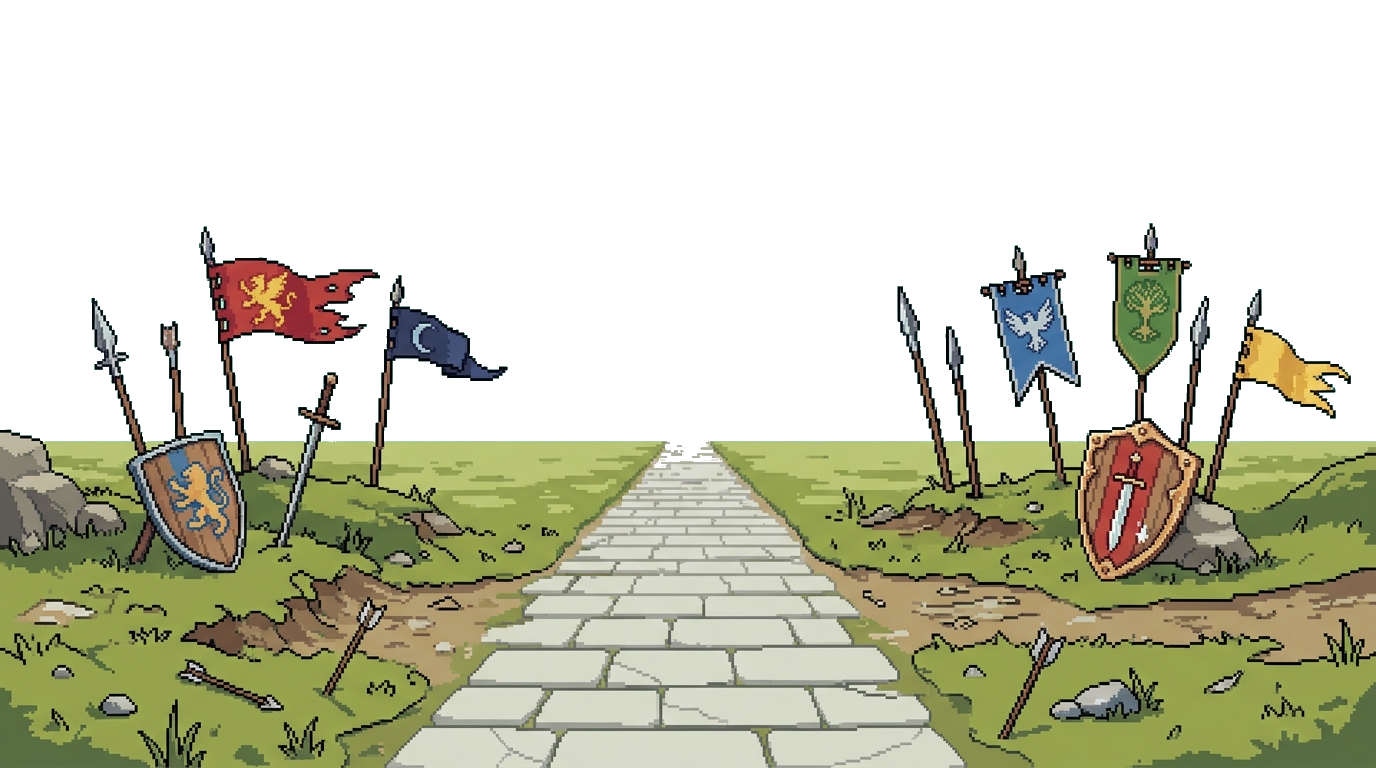
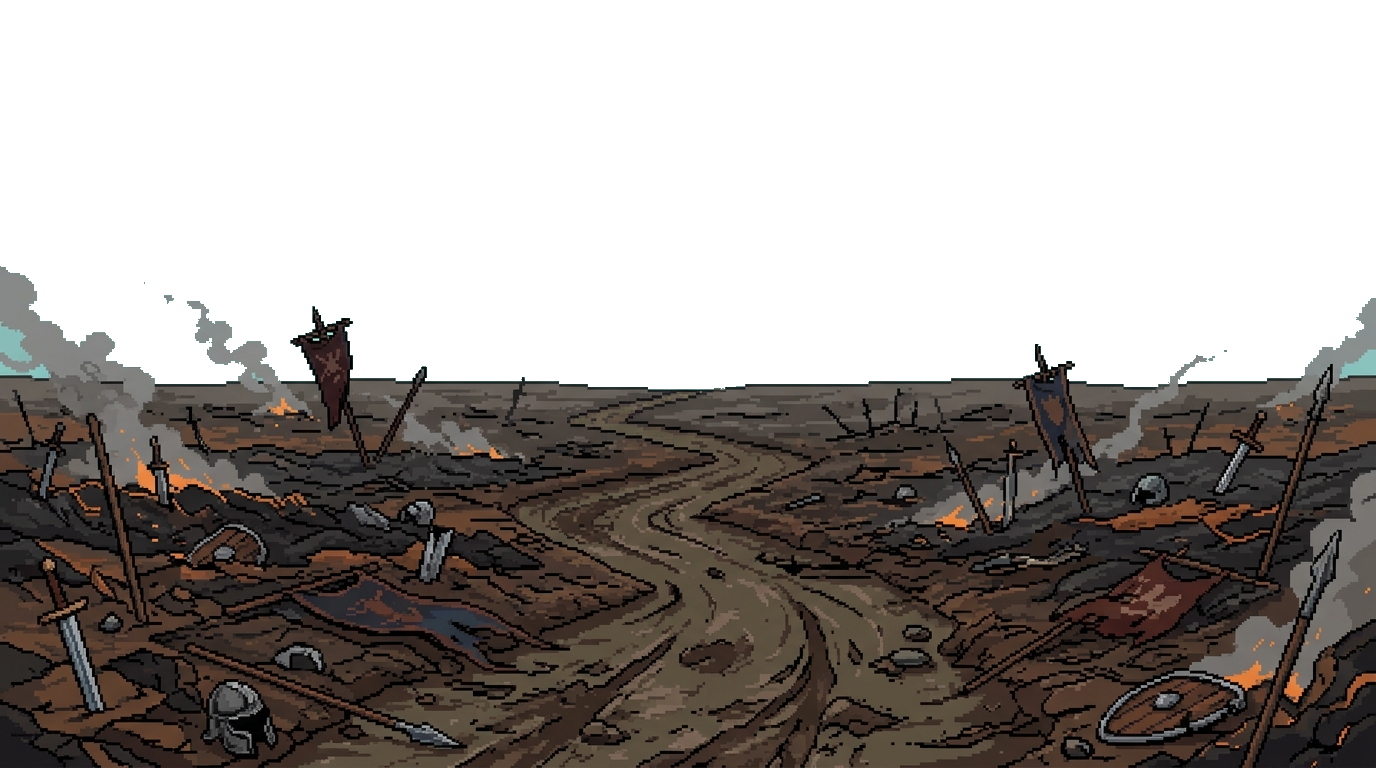
art(ch3): rediseño "La muerte de Flash" iter2 — battlefield aftermath + arco muerte→renacer
Rafael: ch3 debe tener el estilo del fondo de batalla épico de ch2 y centrarse en
la muerte de Flash. Parallax regenerado (estilo comic pixel dramático tipo Warcraft):
  - ch3-sky: cielo crepuscular humo/brasas que abre a un amanecer HTML5 dorado/cyan
  - ch3-mountains: cresta con fortaleza en ruinas humeante (transparente arriba)
  - ch3-path: campo quemado con armas/estandartes caídos y escombros
Mood "secuela con amanecer HTML5" (dramático pero esperanzador). Fondo oscuro →
texto en cream + glow ámbar.

Título "De vuelta al movimiento" → "La muerte de Flash" (i18n ui.deathOfFlash, es/en).

Emblemas re-tematizados al arco muerte→renacer (1 por párrafo):
  I Flash caído · II reconstrucción (yunque, NUEVO) · III estandarte de batalla
  (NUEVO) · IV orbe creativo · V HTML5 naciente (en el horizonte). HTML5 pasa de
  beacon decorativo a emblema clicable; shield/scroll/tome quedan legacy sin uso.

iter1 (fantasía pastel) preservado en old/ (§6.5). Tests + asset-naming actualizados.

diff --git a/src/components/Chapter3Content.vue b/src/components/Chapter3Content.vue
@@ -35,13 +35,18 @@ const bioParagraphs = computed(() => t(bio.eras[chapter.id].textKey).split('\n\n
 // Emblemas clicables — 1 por párrafo de la historia. Plantados en el escenario.
 // pos en % relativo a .ch3-content. Cada uno despliega bioParagraphs[idx].
 const ROMAN = ['I', 'II', 'III', 'IV', 'V']
+// Arco muerte→renacer (Rafael 2026-05-28): 1 emblema por párrafo.
+//   I  Flash caído ......... la muerte de Flash → salto a JS
+//   II reconstrucción ...... Pink Parrot, reconstruir desde cero con reglas nuevas
+//   III estandarte ......... el ágil como forma de pensar / ordenar el caos
+//   IV orbe creativo ....... publicidad digital, experimentar, cosas nuevas
+//   V  HTML5 naciente ...... época de crecer, salto de vuelta a la web (en el horizonte)
 const markers = [
-  // Emblema I = la muerte de Flash → salto a JS (refuerza el párrafo 1).
-  { key: 'flash', src: '/assets/ch3-flash-fallen.png', top: '42%', left: '14%', size: 100 },
-  { key: 'shield', src: '/assets/ch3-prop-shield.png', top: '62%', left: '27%', size: 96 },
-  { key: 'scroll', src: '/assets/ch3-mark-scroll.png', top: '70%', left: '50%', size: 92 },
-  { key: 'tome',   src: '/assets/ch3-mark-tome.png',   top: '60%', left: '72%', size: 88 },
-  { key: 'orb',    src: '/assets/ch3-mark-orb.png',    top: '40%', left: '86%', size: 92 },
+  { key: 'flash',    src: '/assets/ch3-flash-fallen.png', top: '54%', left: '16%', size: 112 },
+  { key: 'rebuild',  src: '/assets/ch3-mark-rebuild.png',  top: '67%', left: '34%', size: 94 },
+  { key: 'standard', src: '/assets/ch3-mark-standard.png', top: '49%', left: '51%', size: 98 },
+  { key: 'orb',      src: '/assets/ch3-mark-orb.png',      top: '66%', left: '69%', size: 88 },
+  { key: 'html5',    src: '/assets/ch3-html5-future.png',  top: '35%', left: '85%', size: 100 },
 ]
 
 // ── Estado del cuento ─────────────────────────────────────────────────────────
@@ -138,9 +143,6 @@ onBeforeUnmount(() => {
         class="ch3-spark"
         :style="{ left: sp.left, '--sp-delay': sp.delay, '--sp-dur': sp.dur, '--sp-size': sp.size }"
       ></span>
-
-      <!-- Faro HTML5 en el horizonte = el futuro (contraparte del Flash caído) -->
-      <div class="ch3-beacon" aria-hidden="true"></div>
     </div>
 
     <!-- ── Contenido: hint sutil + emblemas clicables ────────────────────── -->
@@ -148,7 +150,7 @@ onBeforeUnmount(() => {
       <!-- Hint mínimo (el entorno es el protagonista) -->
       <header class="ch3-hint">
         <p class="ch3-hint-era">Rafael · 2013</p>
-        <h1 class="ch3-hint-title">De vuelta al movimiento</h1>
+        <h1 class="ch3-hint-title">{{ t('ui.deathOfFlash') }}</h1>
         <p class="ch3-hint-cta">{{ t('ui.storyHint') }}</p>
       </header>
 
@@ -236,7 +238,7 @@ onBeforeUnmount(() => {
   overflow-y: auto;
   overflow-x: hidden;
   box-sizing: border-box;
-  background-color: #e9f1fb;
+  background-color: #1a1320;
   image-rendering: pixelated;
 }
 
@@ -323,34 +325,6 @@ onBeforeUnmount(() => {
   32% { opacity: 0; transform: translateX(-50px) rotate(-14deg); }
 }
 
-/* Faro HTML5 en el horizonte — el futuro. Glow celestial cálido + pulso suave. */
-.ch3-beacon {
-  position: absolute;
-  top: 34%;
-  left: 50%;
-  width: clamp(64px, 8.5vw, 120px);
-  aspect-ratio: 1;
-  transform: translate(-50%, -50%);
-  background: url('/assets/ch3-html5-future.png') center / contain no-repeat;
-  image-rendering: pixelated;
-  filter: drop-shadow(0 0 14px rgba(255, 200, 120, 0.85)) drop-shadow(0 0 32px rgba(255, 170, 80, 0.5));
-  animation: ch3-beacon-pulse 5.5s ease-in-out infinite;
-}
-.ch3-beacon::before {
-  content: '';
-  position: absolute;
-  inset: -65%;
-  border-radius: 50%;
-  background: radial-gradient(circle, rgba(255, 244, 210, 0.6) 0%, rgba(255, 210, 140, 0.26) 40%, transparent 70%);
-  z-index: -1;
-  animation: ch3-beacon-halo 5.5s ease-in-out infinite;
-}
-@keyframes ch3-beacon-pulse {
-  0%, 100% { transform: translate(-50%, -50%) scale(1); }
-  50% { transform: translate(-50%, -53%) scale(1.05); }
-}
-@keyframes ch3-beacon-halo { 0%, 100% { opacity: 0.5; } 50% { opacity: 0.9; } }
-
 .ch3-spark {
   position: absolute;
   bottom: 8%;
@@ -395,26 +369,29 @@ onBeforeUnmount(() => {
   font-size: 0.85rem;
   letter-spacing: 0.28em;
   text-transform: uppercase;
-  color: #4a3f63;
+  color: #e8b27a;
   margin: 0 0 4px;
-  text-shadow: 0 1px 0 rgba(255, 255, 255, 0.8);
+  text-shadow: 0 2px 6px rgba(0, 0, 0, 0.8);
 }
 .ch3-hint-title {
   font-family: 'Cinzel', 'Trajan Pro', serif;
   font-weight: 900;
-  font-size: clamp(1.6rem, 4vw, 2.6rem);
+  font-size: clamp(1.8rem, 4.4vw, 3rem);
   margin: 0 0 8px;
   line-height: 1.05;
-  color: #2a2140;
-  text-shadow: 0 1px 0 rgba(255,255,255,0.9), 0 0 18px rgba(150,220,255,0.45);
+  color: #fbeede;
+  text-shadow:
+    0 2px 8px rgba(0, 0, 0, 0.85),
+    0 0 22px rgba(255, 140, 60, 0.6),
+    0 0 44px rgba(255, 90, 40, 0.35);
 }
 .ch3-hint-cta {
   font-family: 'Roboto', sans-serif;
   font-size: 0.95rem;
   font-style: italic;
-  color: #3c3450;
+  color: #f0e2cf;
   margin: 0;
-  text-shadow: 0 1px 0 rgba(255,255,255,0.8);
+  text-shadow: 0 2px 6px rgba(0, 0, 0, 0.85);
   animation: ch3-hint-pulse 3s ease-in-out infinite;
 }
 @keyframes ch3-hint-pulse { 0%, 100% { opacity: 0.7; } 50% { opacity: 1; } }
@@ -654,8 +631,6 @@ onBeforeUnmount(() => {
   .ch3-fx--lasers::before,
   .ch3-fx--lasers::after,
   .ch3-spark,
-  .ch3-beacon,
-  .ch3-beacon::before,
   .ch3-hint-cta,
   .ch3-mark,
   .ch3-mark::before,

diff --git a/tests/components/Chapter3Content.test.js b/tests/components/Chapter3Content.test.js
@@ -46,9 +46,9 @@ describe('Chapter3Content.vue (parallax + cuento — iter10 2026-05-28)', () => 
   })
 
   // ── T2: hint mínimo ─────────────────────────────────────────────────────────
-  it('T2 hint: título + CTA storyHint presentes (texto mínimo)', () => {
+  it('T2 hint: título "La muerte de Flash" + CTA storyHint (texto mínimo)', () => {
     const { wrapper } = mountCh3()
-    expect(wrapper.find('.ch3-hint-title').exists()).toBe(true)
+    expect(wrapper.find('.ch3-hint-title').text()).toMatch(/muerte de Flash/i)
     expect(wrapper.find('.ch3-hint-cta').text().length).toBeGreaterThan(0)
   })
 

diff --git a/tests/assets/asset-naming.test.js b/tests/assets/asset-naming.test.js
@@ -62,7 +62,7 @@ const GITIGNORE_PATH = resolve(process.cwd(), '.gitignore')
 //     · ch3-flash-fallen.png (logo Flash "caído" — narrativa muerte de Flash, emblema I)
 //     · ch3-html5-future.png (logo HTML5 radiante en el horizonte — el futuro)
 const ASSET_NAMING_REGEX =
-  /^ch[0-6]-(bust|bg|bg-stars-far|bg-planet-mid|bg-nebulae-mid|fg-panels|fg-ships|hero|paper-bg|halftone-bg|logo-rm|robot|sky|mountains|path|parchment|flash-fallen|flash-war|html5-future|prop-(shield|banner)|mark-(scroll|tome|orb)|starburst-(green|orange)|planet-(ar-vr|remoose|software-mind)|ship-[12]|game-(california|warcraft|starcraft|magic)|os-(win95|win95-loading))\.(png|jpg)$/
+  /^ch[0-6]-(bust|bg|bg-stars-far|bg-planet-mid|bg-nebulae-mid|fg-panels|fg-ships|hero|paper-bg|halftone-bg|logo-rm|robot|sky|mountains|path|parchment|flash-fallen|flash-war|html5-future|prop-(shield|banner)|mark-(scroll|tome|orb|rebuild|standard)|starburst-(green|orange)|planet-(ar-vr|remoose|software-mind)|ship-[12]|game-(california|warcraft|starcraft|magic)|os-(win95|win95-loading))\.(png|jpg)$/
 
 // Defensive: si public/assets/ no existe o no tiene assets, devolver lista vacía
 // (test setup-friendly antes del primer asset commited).

diff --git a/public/assets/old/CHANGELOG.md b/public/assets/old/CHANGELOG.md
@@ -488,3 +488,12 @@ Aplica colectivamente a los 4 assets parallax originales de ch4 (Plan 04-04 W2).
 - **Qué se intentará diferente:** estilo box-art Warcraft III — cielo ardiente naranja/carmesí con cometas/meteoros surcando + relámpagos, CHOQUE DE CAMPEONES en primer plano (héroe alzando el orbe Flash vs campeón de Apple con martillo/energía azul), ejércitos colisionando detrás, ciudadela Apple de Macs/iPhones, ángulo cinematográfico bajo, máxima épica. forge_background nano-banana-2 res nativa.
 - **Resultado:** 1 intento — éxito. 1376×768, héroe Flash con orbe ardiente en estandarte vs campeón Apple con escudo-manzana + crystal azul, meteoros + relámpagos + explosiones, ciudadela de CRT Macs coronada por Apple negro glowing. Foreshadow directo de ch3-flash-fallen.
 - **Commit hash post-regen:** `e010343`
+
+---
+
+## ch3 parallax (sky/mountains/path) — iter1 → iter2 (2026-05-28)
+
+- **Versiones guardadas:** `old/ch3-sky-2026-05-28-iter1.png`, `old/ch3-mountains-2026-05-28-iter1.png`, `old/ch3-path-2026-05-28-iter1.png` (commit `2650d31`)
+- **Razón del cambio:** Rafael 2026-05-28: ch3 ahora es "La muerte de Flash" y debe tener el estilo del fondo de batalla épico de ch2 (Warcraft). iter1 era fantasía pastel clara (cielo aurora + montañas + camino con estandartes) — bonito pero no matchea el tema muerte-de-Flash ni el drama de ch2.
+- **Qué se intentará diferente:** mood "secuela con amanecer HTML5" — campo de batalla DESPUÉS de la guerra: cielo crepuscular humo/brasas que abre a un amanecer HTML5 dorado/cyan en el horizonte; cresta con fortaleza en ruinas humeante; primer plano de tierra quemada con armas/estandartes caídos y escombros. Estilo comic pixel dramático (matchea ch2-flash-war). Emblemas re-tematizados al arco muerte→renacer (Flash caído → reconstrucción → estandarte → orbe → HTML5 naciente). Título "De vuelta al movimiento" → "La muerte de Flash".
+- **Commit hash post-regen:** `9c92672`